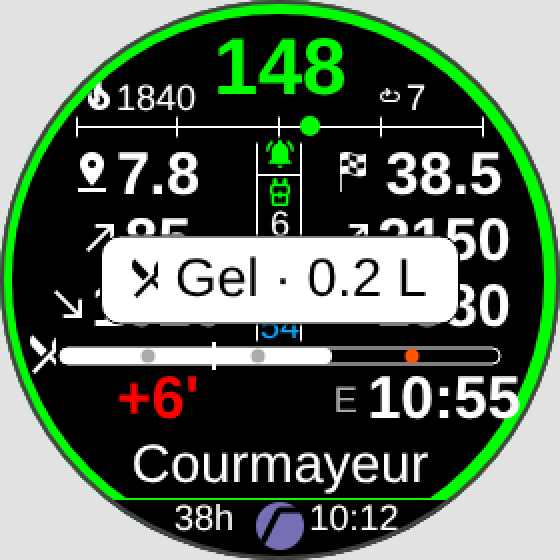
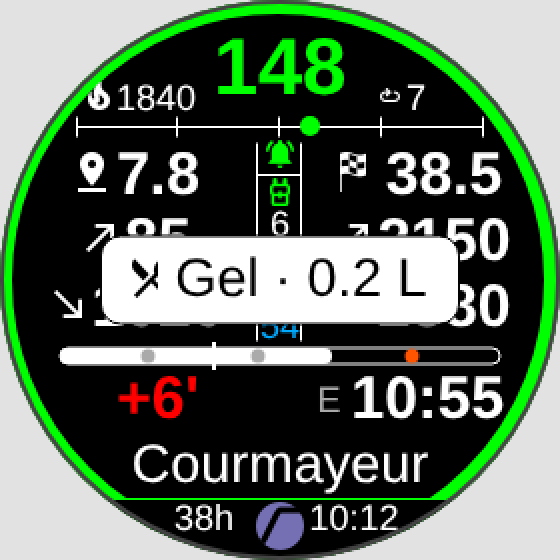
Appli montre 0.6.0 : profil, carte et écran Trail Planner ajustés
Profil :
- zoom aussi par tronçon (point de passage précédent → suivant) et d'un
  ravito à l'autre (profileWindow) ;
- altitudes hors du profil : la plus haute au-dessus de sa ligne, la plus
  basse sous la ligne de base, du côté opposé au coureur ;
- plus de titre de la course ; appui long sur Haut = choix du zoom.

Carte : plus de titre ; appui long sur Haut = choix de l'échelle ; zone
reposée sur le coureur à chaque retour sur la carte (elle repartait de sa
première zone, en Amérique au simulateur), zone par défaut prise d'abord
au départ du parcours.

Écran Trail Planner : plus d'icône à côté de la barre ; heure d'arrivée
(et durée du tronçon au ravito) calée sur le bord de l'écran rond.

Réglage « Jusqu'à l'arrivée » supprimé (montre, Garmin Connect) : l'écran
Trail Planner montre toujours l'arrivée. Aperçus du site mis à jour.

Claude-Session: https://claude.ai/code/session_01NSBNciXRkmBnmJnFJk4SyX

Changed region(s): [[0.5464, 0.6679, 0.9411, 0.7589], [0.0607, 0.6071, 0.1214, 0.6679]]

diff --git a/garmin/TrailPlannerCompanion/README.md b/garmin/TrailPlannerCompanion/README.md
@@ -17,7 +17,7 @@ Le champ de données Trail Planner (`garmin/TrailPlannerField`) continue de s'ut
 Trail de Garmin ; l'appli en reprend l'écran et les calculs pour qui lance la sortie depuis elle (profil
 zoomable, carte, EndurancePro sur la même activité).
 
-**État :** version 0.5.9, à compiler et à tester sur la montre (pas de SDK Connect IQ dans les sessions
+**État :** version 0.6.0, à compiler et à tester sur la montre (pas de SDK Connect IQ dans les sessions
 Claude). Gratuite pendant la bêta. Le passage au payant viendra plus tard : rien dans l'appli pour l'instant.
 
 ![Aperçu approximatif de l'écran Trail Planner sur Enduro 3](apercu-trail-planner.png)
@@ -78,7 +78,10 @@ météo, batterie, distance, chrono, heure, 2e métrique, circuits, alarmes (pop
   (jusqu'à la plus petite, plutôt que de couper) ; à droite le tronçon suivant ; la barre se
   remplit avec le **temps passé sur l'arrêt prévu** (rouge une fois dépassé), « 3:25/5:00 » dessous, et à
   droite la **durée prévue du tronçon suivant**, corrigée de ton rythme ;
-- avant le départ : vers le premier point et vers l'arrivée, temps prévu du parcours, nom de la course ;
+- avant le départ : vers le premier point et vers l'arrivée, temps prévu du parcours, « GPS... » puis
+  « START : départ » en dernière ligne ;
+- l'**heure d'arrivée estimée** (à droite sous la barre) est calée sur le bord de l'écran rond ; pas
+  d'icône à côté de la barre ;
 - **rappels nutrition** (« Gel · 0.2 L », 30 s) et **alerte de barrière** (sous 30 min, 10 s) en popup
   d'EndurancePro, sur tous les écrans, avec vibration.
 
@@ -96,11 +99,14 @@ ni pendant l'exploration de la carte ; changer d'écran à la main annule le ret
 **3. Profil de la course** (sans km ni nom de point) :
 - en haut, l'**écart au plan** à l'endroit où tu es (`+6'` = 6 min de retard, en rouge ; avance en
   vert). À la place, pendant 5 s : « Passage · nom », « Départ · nom » ou « Tour N » après un tour ;
-  « Hors parcours · N m » si tu t'écartes du tracé ; « Pause » ; le nom de la course avant le départ ;
-- la portion de parcours du **zoom choisi** (parcours entier, 20, 10, 5 ou 2 km), toi au **tiers gauche**
-  comme sur la page assistance : tu vois surtout ce qui t'attend ;
+  « Hors parcours · N m » si tu t'écartes du tracé ; « Pause » ; rien avant le départ (pas de titre) ;
+- la portion de parcours du **zoom choisi** (parcours entier, 20, 10, 5 ou 2 km, toi au **tiers gauche**
+  comme sur la page assistance : tu vois surtout ce qui t'attend), ou le **tronçon en cours** (du point de
+  passage précédent au suivant), ou **d'un ravito à l'autre** (ravitos et bases de vie) ; **appui long sur
+  Haut** depuis le profil : choix du zoom ;
 - **altitudes ajustées à la portion affichée** (100 m d'écart au moins, pour ne pas grossir le plat), avec
-  la plus haute et la plus basse à gauche ;
+  la plus haute **au-dessus de sa ligne** et la plus basse **sous la ligne de base**, hors du profil, du côté
+  opposé à toi ;
 - partie faite et partie à venir en deux gris, ou à venir en **couleurs des pentes** (option) ;
 - points de passage sans nom : ravito (rond orange), base de vie (carré rouge), autres (petit rond),
   grisés une fois passés ;
@@ -119,8 +125,9 @@ au zoom 10 km), pour que les petites bosses ne zèbrent pas une montée.
 - **fond de carte Garmin** de la montre (chemins, relief, noms) sur les montres à cartes ; sur les autres
   (Forerunner 255 et 265), **tracé seul** sur le fond du thème, partie faite en gris, ravito rond orange,
   base de vie carré rouge ;
-- **échelle** choisie dans le menu (largeur de l'écran : 200 m, 500 m, 1 km par défaut, 2 km, 5 km),
-  rappelée en bas ;
+- **échelle** choisie par **appui long sur Haut** depuis la carte (ou dans le menu : largeur de l'écran,
+  200 m, 500 m, 1 km par défaut, 2 km, 5 km), rappelée en bas ; pas de titre en haut ; à chaque retour sur
+  la carte, elle se pose tout de suite sur toi ;
 - **Explorer la carte** (menu, montres à cartes) : la carte passe en mode exploration Garmin pour la
   déplacer et zoomer avec les boutons ; BACK revient au suivi. Aussi sur la **fiche d'un parcours**
   (écran de démarrage) : BACK revient à la vue d'ensemble ;
@@ -138,9 +145,9 @@ d'anneau au bord de l'écran (celui de la FC d'EndurancePro reste).
 | Bouton | Avant le départ | Pendant la sortie | En pause |
 |---|---|---|---|
 | START | Démarrer | Pause (menu Reprendre / Enregistrer / Supprimer) | Reprendre |
-| BACK (Lap) | Quitter l'appli | Nouveau tour et passage au point | Menu de pause |
+| BACK (Lap) | Retour à la liste des parcours | Nouveau tour et passage au point | Menu de pause |
 | Haut / Bas | Écran suivant (EP, Trail Planner, profil, carte) | Écran suivant | Écran suivant |
-| Appui long sur Haut | Menu | Menu | Menu |
+| Appui long sur Haut | Menu ; zoom depuis le profil, échelle depuis la carte | Idem | Idem |
 
 Écran tactile : balayages pour changer d'écran. Un balayage « retour » ne coupe pas la sortie, et un tap
 ne fait rien : START et BACK restent sur les boutons. « Supprimer » demande une confirmation.
@@ -159,8 +166,8 @@ Le menu d'EndurancePro, réglable en course comme dans le champ : l'appli ne fai
 rangés dans les dossiers d'EndurancePro (pas de dossier à part) :
 - en tête, **Explorer la carte** (montres à cartes ; seulement avec une carte à l'écran : écrans de course
   ou fiche d'un parcours, pas depuis la liste) ;
-- **Affichage** : en plus des réglages d'EndurancePro, **Zoom du profil**, **Jusqu'à l'arrivée** (distance,
-  D+ et D- restants jusqu'à l'arrivée sur l'écran Trail Planner), **Échelle de la carte** ;
+- **Affichage** : en plus des réglages d'EndurancePro, **Zoom du profil** et **Échelle de la carte** (aussi
+  par appui long sur Haut depuis le profil ou la carte) ;
 - **Colorisation** : **Couleurs des pentes** (profil) ;
 - **Circuit** : **Tour = passage au point** ;
 - **Alarmes** : **Rappels nutrition** (selon le plan, désactivés, ou toutes les 15 à 60 min) et
@@ -255,7 +262,7 @@ de fichier :
   respecté ;
 - pas de lecture de l'étape d'entraînement Garmin (réservée aux champs de données) : alarmes toujours
   actives ;
-- `AppName` et `app_version` (« 0.5.9 (EndurancePro 2.7.3) ») propres à l'appli.
+- `AppName` et `app_version` (« 0.6.0 (EndurancePro 2.7.3) ») propres à l'appli.
 
 Une nouvelle version d'EndurancePro se reporte à la main dans ces fichiers.
 
